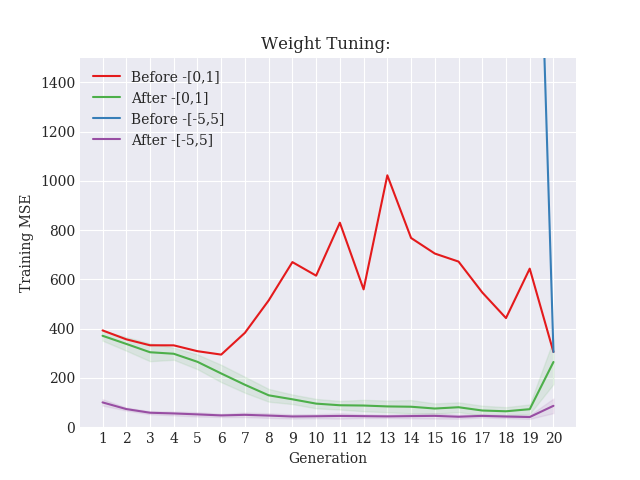
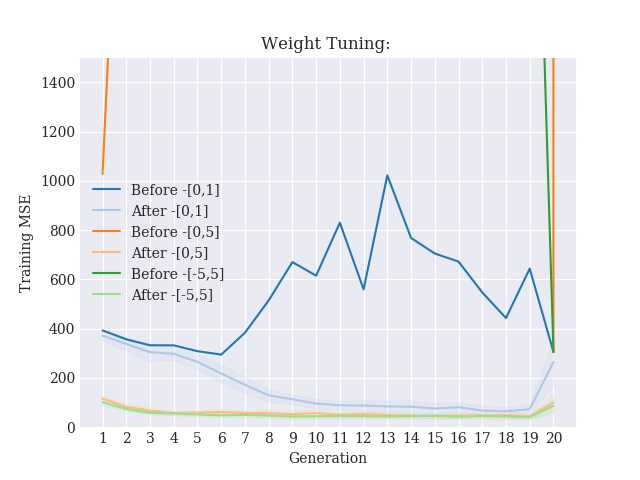
refactor to seperate reader functions

diff --git a/plots/plot_weights.py b/plots/plot_weights.py
@@ -3,6 +3,8 @@ import matplotlib
 import matplotlib.pyplot as plt
 import numpy as np
 
+from reader import extract_all_data, avg_over_runs
+
 # Set theme
 matplotlib.style.use('seaborn-darkgrid')
 matplotlib.rcParams['font.family'] = "serif"
@@ -11,79 +13,19 @@ matplotlib.rcParams['font.family'] = "serif"
 runs = 10
 gens = 20
 pop_size = 100
-weights = [(0, 1, "[0,1]"), (-5, 5, "[-5,5]")]
+weights = [
+    ("../log/log_weight_0_1.txt", "[0,1]"),
+    ("../log/log_weight_0_5.txt", "[0,5]"),
+    ("../log/log_weight_-5_5.txt", "[-5,5]"),
+    # TODO: add the log below when finished
+    # ("../log/log_weights_-1_1", "[-1,1]")
+]
 
-
-def extract_avg_mean_std(rest):
-    split = rest.split(' ')
-    return round(float(split[1]), 2), round(float(split[2]), 2)
-
-
-def extract_fitness_per_gen(lower, upper):
-    fitness = np.zeros((runs, gens))
-    tree_size = np.zeros((runs, gens))
-    before_fitness = np.zeros((runs, gens, pop_size))
-    after_fitness = np.zeros((runs, gens, pop_size))
-
-    run = None
-    gen = 0
-    tuner = 0
-
-    with open(f"../log/log_weight_{lower}_{upper}.txt", "r") as f:
-        lines = f.readlines()
-
-    for line in lines:
-        line = line.rstrip("\n")
-
-        # Parse the cross validation number
-        if "Run" in line:
-            run = int(line[-1])
-
-        # Parse the generation information
-        if "GA" in line:
-            tuner = 0
-
-            split = line.split(" ")
-            gen = int(split[1]) - 1
-
-            fitness[run, gen] = split[2]
-            tree_size[run, gen] = split[3]
-
-        # Parse tuner logs
-        if "Tuner" in line and "Tuner converged" not in line:
-            split = line.split(" ")
-
-            before_fitness[run, gen, tuner] = split[1]
-            after_fitness[run, gen, tuner] = split[2]
-
-            tuner += 1
-
-    # Average the tuner logs per gen
-    before_fitness = np.mean(before_fitness, axis=2)
-    after_fitness = np.mean(after_fitness, axis=2)
-
-    return fitness, tree_size, before_fitness, after_fitness
-
-
-def extract_all_data(weights):
-    data = {}
-    for idx, (lower, upper, name) in enumerate(weights):
-        fit, size, after, before = extract_fitness_per_gen(lower, upper)
-
-        data[name] = (fit, size, after, before)
-
-    return data
-
-
-def avg_over_runs(run_data):
-    return np.mean(run_data, axis=0), np.std(run_data, axis=0)
-
-
-data = extract_all_data(weights)
+data = extract_all_data(weights, runs=runs, gens=gens, pop_size=pop_size)
 x = np.arange(1, 21, 1)
-palette = plt.get_cmap('Set1')
 # %%
 
+palette = plt.get_cmap('tab10')
 # Plot best fitness per generation
 
 plt.figure()
@@ -106,6 +48,8 @@ plt.savefig("../images/weight_test_fitness")
 plt.show()
 
 # %%
+
+palette = plt.get_cmap('tab10')
 
 # Plot size of the tree
 plt.figure()
@@ -131,6 +75,8 @@ plt.show()
 
 # %%
 
+palette = plt.get_cmap('tab20')
+
 # Plot the average improvement with weight tuning
 plt.figure()
 plt.xlabel("Generation")
@@ -154,8 +100,8 @@ for w in data.keys():
     plt.plot(x, m_before, color=palette(color), label=f"Before -{w}")
     # plt.fill_between(x, m_before + std_before, m_before - std_before, color=palette(color), alpha=0.1)
 
-    plt.plot(x, m_after, color=palette(color + 2), label=f"After -{w}")
-    plt.fill_between(x, m_after + std_after, m_after - std_after, color=palette(color + 2), alpha=0.1)
+    plt.plot(x, m_after, color=palette(color + 1), label=f"After -{w}")
+    plt.fill_between(x, m_after + std_after, m_after - std_after, color=palette(color + 1), alpha=0.1)
 
     # # TODO: this plot looks strange, it has a extreme outlier
     # delta = before - after
@@ -164,7 +110,7 @@ for w in data.keys():
     # plt.plot(x, m_delta, color=palette(color), label=w)
     # plt.fill_between(x, m_delta + std_delta, m_delta - std_delta, color=palette(color), alpha=0.1)
 
-    color += 1
+    color += 2
 
 plt.legend()
 plt.savefig("../images/weight_test_delta")

diff --git a/plots/reader.py b/plots/reader.py
@@ -1,0 +1,79 @@
+import numpy as np
+
+
+# Read average values of a log
+def extract_mean_std(rest):
+    split = rest.split(' ')
+    return round(float(split[1]), 2), round(float(split[2]), 2)
+
+
+def extract_value_per_run(log_name):
+    with open(log_name, "r") as file_handle:
+        line_list = file_handle.readlines()
+
+    results = line_list[-4:len(line_list)]
+    mean_train, std_train = extract_mean_std(results[1])
+    mean_test, std_test = extract_mean_std(results[3])
+
+    return mean_train, std_train / 9, mean_test, std_test
+
+
+# Read all information from a log
+def extract_all_per_gen(fname, runs=10, gens=100, pop_size=100):
+    fitness = np.zeros((runs, gens))
+    tree_size = np.zeros((runs, gens))
+    before_fitness = np.zeros((runs, gens, pop_size))
+    after_fitness = np.zeros((runs, gens, pop_size))
+
+    run = None
+    gen = 0
+    tuner = 0
+
+    with open(fname, "r") as f:
+        lines = f.readlines()
+
+    for line in lines:
+        line = line.rstrip("\n")
+
+        # Parse the cross validation number
+        if "Run" in line:
+            run = int(line[-1])
+
+        # Parse the generation information
+        if "GA" in line:
+            tuner = 0
+
+            split = line.split(" ")
+            gen = int(split[1]) - 1
+
+            fitness[run, gen] = split[2]
+            tree_size[run, gen] = split[3]
+
+        # Parse tuner logs
+        if "Tuner" in line and "Tuner converged" not in line:
+            split = line.split(" ")
+
+            before_fitness[run, gen, tuner] = split[1]
+            after_fitness[run, gen, tuner] = split[2]
+
+            tuner += 1
+
+    # Average the tuner logs per gen
+    before_fitness = np.mean(before_fitness, axis=2)
+    after_fitness = np.mean(after_fitness, axis=2)
+
+    return fitness, tree_size, before_fitness, after_fitness
+
+
+def extract_all_data(fnames, **kwargs):
+    data = {}
+    for idx, (fname, name) in enumerate(fnames):
+        fit, size, after, before = extract_all_per_gen(fname, **kwargs)
+
+        data[name] = (fit, size, after, before)
+
+    return data
+
+
+def avg_over_runs(run_data):
+    return np.mean(run_data, axis=0), np.std(run_data, axis=0)

diff --git a/plots/plot_gp_pop_size.py b/plots/plot_gp_pop_size.py
@@ -4,26 +4,11 @@ import matplotlib
 import matplotlib.pyplot as plt
 import numpy as np
 
+from reader import extract_value_per_run
+
 # Set theme
 matplotlib.style.use('seaborn-darkgrid')
 matplotlib.rcParams['font.family'] = "serif"
-
-
-def extract_mean_std(rest):
-    split = rest.split(' ')
-    return round(float(split[1]), 2), round(float(split[2]), 2)
-
-
-def extract_value_per_run(size):
-    with  open(f"../log/log_pop_size_{size}.txt", "r") as file_handle:
-        line_list = file_handle.readlines()
-
-    results = line_list[-4:len(line_list)]
-    mean_train, std_train = extract_mean_std(results[1])
-    mean_test, std_test = extract_mean_std(results[3])
-
-    return mean_train, std_train / 9, mean_test, std_test
-
 
 sizes = [10, 100, 500, 1000, 2000]
 
@@ -36,7 +21,7 @@ z = [0] * len(sizes)
 z_lower = [0] * len(sizes)
 
 for idx, size in enumerate(sizes):
-    mean_train, std_train, mean_test, std_test = extract_value_per_run(size)
+    mean_train, std_train, mean_test, std_test = extract_value_per_run(f"../log/log_pop_size_{size}.txt")
     y_upper[idx] = mean_train + std_train
     y[idx] = mean_train
     y_lower[idx] = mean_train - std_train
